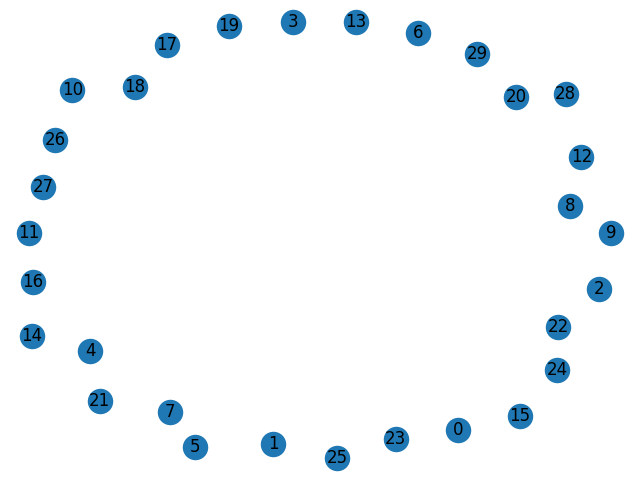
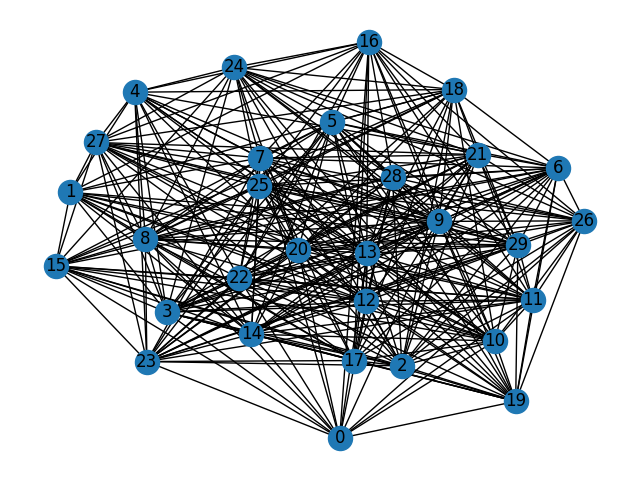
Final

diff --git a/AdditiveSpanner.html b/AdditiveSpanner.html
@@ -22,7 +22,7 @@
 
         </svg>-->
 
-        <img src = "Lobster.jpg" id="graph">
+        <img src = "start.png" id="graph">
         
 
     </div>
@@ -38,7 +38,7 @@
 
 
             //d3.selectAll("img").remove();
-            document.getElementById("graph").src = "Drewski.jpg"
+            document.getElementById("graph").src = "end.png"
 
            
 

diff --git a/spanner.py b/spanner.py
@@ -13,15 +13,19 @@ def main():
 
     testDisplay(G, isFinished) #gets starting graph image
 
-    Gprime = scaleGraph(G) #creates G'
+    GScaled = scaleGraph(G)  
+    mst = nx.minimum_spanning_tree(G, weight='weight', algorithm='kruskal', ignore_nan=False)
+    Gprime = scaleGraph(mst) #takes the mst G and makes G'
 
     subdivideGraph(Gprime, H)
+    dLightWeight(GScaled, Gprime, H)
+    spannerCompletion(H, Gprime)
 
-    testDisplay(Gprime, isFinished)
+    isFinished = True
+
     testDisplay(H, isFinished)
     
-
-    print("DONE")
+    print("Spanning Complete")
    
 
 #~~~~~~~~~~~~~~~~~~~~~~~~~~~~~~~~~~~~~~~~~~~~~~~~~~~~~~~~~~~~~~~~~~
@@ -43,7 +47,7 @@ def setEdgeWeight(G):
     nx.set_edge_attributes(G, values = 1, name = 'weight')
 
     for u,v,d in G.edges(data=True):
-        d['weight']+= round(np.random.uniform(0, 50), 2)
+        d['weight']+= np.random.uniform(0, 100)
 
 #~~~~~~~~~~~~~~~~~~~~~~~~~~~~~~~~~~~~~~~~~~~~~~~~~~~~~~~~~~~~~~~~~~
 def nodeCreation(G):
@@ -88,16 +92,13 @@ def testDisplay(G, isFinished):
 def scaleGraph(G):
     #Iterate through the nodes of the graph and scale each edge weight to (n/2)*(1/sum)
 
-    Gprime = nx.minimum_spanning_tree(G, weight='weight', algorithm='kruskal', ignore_nan=False) #takes the mst of the spanned G'
+    sum = G.size(weight="weight")
+    n = G.number_of_nodes()
 
-    sum = Gprime.size(weight="weight")
-    n = Gprime.number_of_nodes()
-     
+    for u,v,d in G.edges(data=True): #scaling
+        d['weight'] *= ((n/2) * (1/sum))
 
-    for u,v,d in Gprime.edges(data=True): #scaling
-        d['weight'] *= round(((n/2) * (1/sum)), 2)
-
-    return(Gprime)
+    return(G)
 
 #~~~~~~~~~~~~~~~~~~~~~~~~~~~~~~~~~~~~~~~~~~~~~~~~~~~~~~~~~~~~~~~~~~
 def subdivideGraph(Gprime, H):
@@ -109,57 +110,55 @@ def subdivideGraph(Gprime, H):
     for u,v,d in Gprime.edges(data=True): #subdivision w(e) / ceiling(w(e))
         if(d['weight'] > 1):
             newEdgeCount = round((d['weight']) / (math.ceil(d['weight'])))
-            print(newEdgeCount)
             newEdgeWeight = (d['weight']) / (newEdgeCount)
-            print(newEdgeWeight)
             lastNode = u
 
             for i in range(newEdgeCount):
                 tempNode = nodeCreation(H)
-                H.add_node(tempNode, weight=newEdgeWeight)
-                H.add_edge(lastNode, tempNode)
+                H.add_node(tempNode)
+                H.add_edge(lastNode, tempNode, weight=newEdgeWeight)
                 lastNode = tempNode
                 print("adding")
 
-            H.add_edge(lastNode, v) #completes the chain
+            H.add_edge(lastNode, v, weight = newEdgeWeight) #completes the chain
 
         else:
             H.add_edge(u,v, weight = d['weight'])
 
 #~~~~~~~~~~~~~~~~~~~~~~~~~~~~~~~~~~~~~~~~~~~~~~~~~~~~~~~~~~~~~~~~~~
-def dLightWeight():
+def dLightWeight(GScaled, Gprime, H):
     #add mst to H, then add edges from g' until the sum <= d
+    #d = n^(2/3)
 
-    print('incomplete')
+    sum = 0
+    n = Gprime.number_of_nodes()
+    dWeight = n ** (2/3)
+    print(dWeight)
 
+    if(dWeight > 0):
+        for u,v,d in GScaled.edges(data=True):
+            if((sum + d['weight']) > dWeight):
+                print("break")
+                break
+            elif(not H.has_edge(u,v)):
+                H.add_edge(u,v, weight = d['weight'])
+                sum += d['weight']
+                print("added")
+            
 #~~~~~~~~~~~~~~~~~~~~~~~~~~~~~~~~~~~~~~~~~~~~~~~~~~~~~~~~~~~~~~~~~~
-def spannerCompletion():
+def spannerCompletion(H, Gprime):
     #take each pair of vertex, calc the shortest path from u,v in H and u,v in G' check how much larger is H
     #if it is a lot larger and doesn't satisfy the equation, add all the edges into H from G' (for u,v)
     #do until this has been done for all vertex pairs
     #if there is a pair that is not in H but in G', then just add from G' to H
 
-    print('incomplete')
-
-#~~~~~~~~~~~~~~~~~~~~~~~~~~~~~~~~~~~~~~~~~~~~~~~~~~~~~~~~~~~~~~~~~~
-def spanning(G, H):
-    #this function handles the for loop that adds edges to the edgless graph using the MST
-
-    """  
-    Pseudocode:
-
-    get mst of G (DONE)
-    subdivide the edges (??)
-    add all the edges of the mst into h(spanner) (SORTA DONE)
-    apply the d-light weight initialization sort the neightbor edges for each node accorting to the sorted order, add them to h and sum the edge weights for each node
-    keep adding the edges until the total sum is = D
-    spanner completion for each vertex try to add all edges in the shortest path if the spanner condition doesn't satisfy 
-    """
-
-    mst = nx.minimum_spanning_tree(G) #get mst of G
-    
-    return(H)
-
+    for u,v,d in Gprime.edges(data=True):
+        if((not H.has_edge(u,v))):
+            H.add_edge(u,v, weight = d['weight'])
+        elif(H[u][v]["weight"] > Gprime[u][v]["weight"]):
+            H.remove_edge(u,v)
+            H.add_edge(u,v, weight = d['weight'])
+            print("replace")
 
 
 main()
